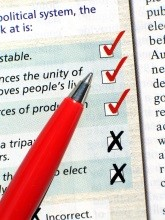
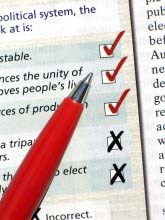
slightly optimised service page images and played with drop caps for the numbers

diff --git a/css/style.css b/css/style.css
@@ -134,30 +134,31 @@ body {
     margin: 50px 0; }
   body .container-fluid {
     padding: 0; }
-    body .container-fluid .jumbotron .custom {
+    body .container-fluid .jumbotron {
       margin: auto;
       margin-bottom: 50px;
       max-width: 75%;
-      padding-right: 130px;
-      padding-left: 130px; }
+      padding-right: 100x;
+      padding-left: 100px;
+      max-width: 80%; }
       @media screen and (max-width: 992px) {
-        body .container-fluid .jumbotron .custom {
+        body .container-fluid .jumbotron {
           padding-right: 60px;
           padding-left: 60px;
           max-width: 90%; } }
       @media screen and (max-width: 768px) {
-        body .container-fluid .jumbotron .custom {
+        body .container-fluid .jumbotron {
           padding-right: 30px;
           padding-left: 30px;
           width: 70%;
           margin: 0; } }
       @media screen and (max-width: 480px) {
-        body .container-fluid .jumbotron .custom {
+        body .container-fluid .jumbotron {
           width: 80%;
           padding-right: 0;
           padding-left: 0;
           margin: 0; } }
-      body .container-fluid .jumbotron .custom h3 {
+      body .container-fluid .jumbotron h3 {
         line-height: 40px; }
   @media screen and (max-width: 768px) {
     body .container {
@@ -403,6 +404,11 @@ body {
 
 #servicesPage p {
   text-indent: 0; }
+#servicesPage .row .dropcaps {
+  font-size: 1.1em;
+  font-weight: bold;
+  float: left;
+  padding: 0; }
 #servicesPage .row .col-xs-3 {
   margin: 10px 0;
   text-align: right; }

diff --git a/sass/pages/_base.scss b/sass/pages/_base.scss
@@ -17,12 +17,13 @@ body {
     }
     .container-fluid {
         padding: 0;
-        .jumbotron .custom {
+        .jumbotron {
             margin: auto;
             margin-bottom: 50px;
             max-width: 75%;
-            padding-right: 130px;
-            padding-left: 130px;
+            padding-right: 100x;
+            padding-left: 100px;
+            max-width: 80%;
             @include md {
                 padding-right: 60px;
                 padding-left: 60px;

diff --git a/sass/pages/_services.scss b/sass/pages/_services.scss
@@ -3,6 +3,12 @@
         text-indent: 0;
     }
     .row {
+        .dropcaps {
+            font-size: 1.1em;
+            font-weight: bold;
+            float: left;
+            padding: 0;
+        }
         .col-xs-3 {
             margin: 10px 0;
             text-align: right;

diff --git a/services.php b/services.php
@@ -22,10 +22,10 @@
             <p>Your journey to elevate your health follows this process:</p>
             <div class="row verticalAlign">
                 <div class="col-xs-3">
-                    <img src="img/servicesPageImg/step1.png" alt="step 1 image" class="additionalPic">
+                    <img src="img/servicesPageImg/step1.jpg" alt="step 1 image" class="additionalPic">
                 </div>
                 <div class="col-xs-9">
-                    <p>1. Your journey begins with a free consultation where you explain to us what you are looking for and we explain what packages we have and what we can do for you!</p>
+                    <p><span class="dropcaps">1.</span>Your journey begins with a free consultation where you explain to us what you are looking for and we explain what packages we have and what we can do for you!</p>
                 </div>
             </div>
             <div class="row verticalAlign">
@@ -33,15 +33,15 @@
                     <img src="img/servicesPageImg/step2.jpg" alt="step 2 image" class="additionalPic">
                 </div>
                 <div class="col-xs-9">
-                    <p>2. Following this consultation, should you wish to elevate your health with us, you will be sent various questionnaires and a food diary to complete and we book your first session…</p>
+                    <p><span class="dropcaps">2.</span> Following this consultation, should you wish to elevate your health with us, you will be sent various questionnaires and a food diary to complete and we book your first session…</p>
                 </div>
             </div>
             <div class="row verticalAlign">
                 <div class="col-xs-3">
-                    <img src="img/servicesPageImg/step3.png" alt="step 3 image" class="additionalPic">
+                    <img src="img/servicesPageImg/step3.jpg" alt="step 3 image" class="additionalPic">
                 </div>
                 <div class="col-xs-9">
-                    <p>3. ….your first session consists of a thorough postural and physical assessment (nothing strenuous!!!).</p>
+                    <p><span class="dropcaps">3.</span> ...your first session consists of a thorough postural and physical assessment (nothing strenuous!!!).</p>
                 </div>
             </div>
             <div class="row verticalAlign">
@@ -49,15 +49,15 @@
                     <img src="img/servicesPageImg/step4.jpg" alt="step 4 image" class="additionalPic">
                 </div>
                 <div class="col-xs-9">
-                    <p>4. The information we ascertain from the questionnaires, food diary and postural and physical assessments is then used to design the Eat-Train-Live Smart program for you. This information is crucial in ensuring we can design the correct program to meet your needs and goals</p>
+                    <p><span class="dropcaps">4.</span> The information we ascertain from the questionnaires, food diary and postural and physical assessments is then used to design the Eat-Train-Live Smart program for you. This information is crucial in ensuring we can design the correct program to meet your needs and goals</p>
                 </div>
             </div>
             <div class="row verticalAlign">
                 <div class="col-xs-3">
-                    <img src="img/servicesPageImg/step5.png" alt="step 5 image" class="additionalPic">
+                    <img src="img/servicesPageImg/step5.jpg" alt="step 5 image" class="additionalPic">
                 </div>
                 <div class="col-xs-9">
-                    <p>5. Your bespoke program is then delivered and explained to you and the training can commence! The number of sessions you do with us, is up to you, but a minimum of at least one per week is recommended to be able provide feedback on the program and to ensure you are happy with the program. We can also check that you are carrying out the exercises correctly and it provides us with the opportunity to provide any further information and motivation to ensure you succeed with your program.</p>
+                    <p><span class="dropcaps">5.</span> Your bespoke program is then delivered and explained to you and the training can commence! The number of sessions you do with us, is up to you, but a minimum of at least one per week is recommended to be able provide feedback on the program and to ensure you are happy with the program. We can also check that you are carrying out the exercises correctly and it provides us with the opportunity to provide any further information and motivation to ensure you succeed with your program.</p>
                 </div>
             </div>
             <div class="row verticalAlign">
@@ -65,15 +65,15 @@
                     <img src="img/servicesPageImg/step6.jpg" alt="step 6 image" class="additionalPic">
                 </div>
                 <div class="col-xs-9">
-                    <p>6. The Eat-Train-Live Smart program will also be for you to follow at home, when you are not having a session delivered at Elevate Health &amp; Fitness.</p>
+                    <p><span class="dropcaps">6.</span> The Eat-Train-Live Smart program will also be for you to follow at home, when you are not having a session delivered at Elevate Health &amp; Fitness.</p>
                 </div>
             </div>
             <div class="row verticalAlign">
                 <div class="col-xs-3">
-                    <img src="img/servicesPageImg/step7.png" alt="step 7 image" class="additionalPic">
+                    <img src="img/servicesPageImg/step7.jpg" alt="step 7 image" class="additionalPic">
                 </div>
                 <div class="col-xs-9">
-                    <p>7. Your program is then fine tuned as you progress through the program to ensure it fits in with your lifestyle and other commitments, with regular re-assessment to ensure you are on the right track!</p>
+                    <p><span class="dropcaps">7.</span> Your program is then fine tuned as you progress through the program to ensure it fits in with your lifestyle and other commitments, with regular re-assessment to ensure you are on the right track!</p>
                 </div>
             </div>
         </div>

diff --git a/index.php b/index.php
@@ -105,7 +105,7 @@
                         </div>
                     </div>
                     <br />
-                    <div class="jumbotron custom">
+                    <div class="jumbotron">
                         <h3>Start the journey to Elevate your health by contacting us to arrange your free, no obligation consultation.</h3>
                         <a class="btn btn-lg btnColor" href="contactUs.php">Contact us!</a>
                     </div>
